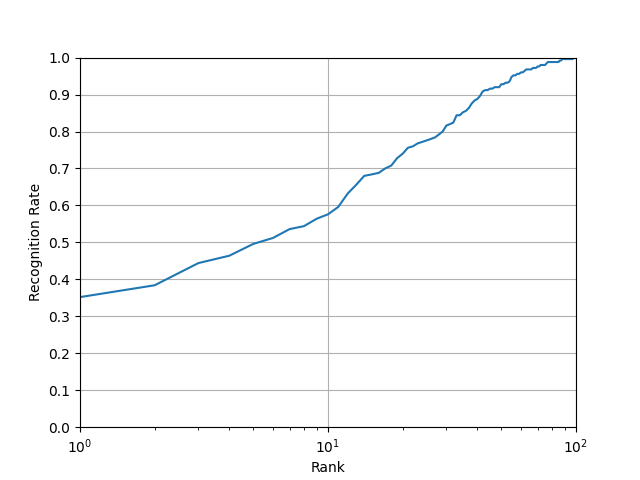
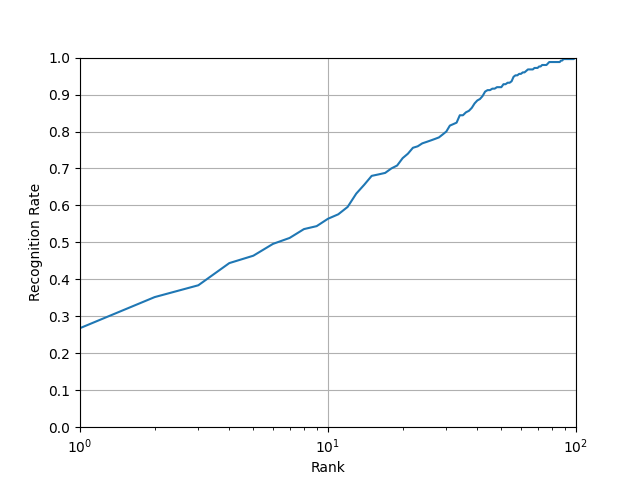
readme, more augmentations

diff --git a/feature_extractors/cnn/image_augment.py b/feature_extractors/cnn/image_augment.py
@@ -1,0 +1,114 @@
+import sys
+sys.path.append(sys.path[0]+'\\..\\..')
+
+import os
+from os import walk
+import cv2
+import random
+import numpy as np
+import shutil
+def brightness(img, low, high):
+	value = random.uniform(low, high)
+	hsv = cv2.cvtColor(img, cv2.COLOR_BGR2HSV)
+	hsv = np.array(hsv, dtype = np.float64)
+	hsv[:,:,1] = hsv[:,:,1]*value
+	hsv[:,:,1][hsv[:,:,1]>255]  = 255
+	hsv[:,:,2] = hsv[:,:,2]*value 
+	hsv[:,:,2][hsv[:,:,2]>255]  = 255
+	hsv = np.array(hsv, dtype = np.uint8)
+	img = cv2.cvtColor(hsv, cv2.COLOR_HSV2BGR)
+	return img
+
+def channel_shift(img, value):
+	value = int(random.uniform(-value, value))
+	img = img + value
+	img[:,:,:][img[:,:,:]>255]  = 255
+	img[:,:,:][img[:,:,:]<0]  = 0
+	img = img.astype(np.uint8)
+	return img
+
+def horizontal_flip(img, flag):
+	if flag:
+		return cv2.flip(img, 1)
+	else:
+		return img
+
+def rotate_image(image, angle):
+	image_center = tuple(np.array(image.shape[1::-1]) / 2)
+	rot_mat = cv2.getRotationMatrix2D(image_center, angle, 1.0)
+	result = cv2.warpAffine(image, rot_mat, image.shape[1::-1], flags=cv2.INTER_LINEAR)
+	return result
+
+def adjust_gamma(image, gamma=1.0):
+	# build a lookup table mapping the pixel values [0, 255] to
+	# their adjusted gamma values
+	invGamma = 1.0 / gamma
+	table = np.array([((i / 255.0) ** invGamma) * 255
+		for i in np.arange(0, 256)]).astype("uint8")
+	# apply gamma correction using the lookup table
+	return cv2.LUT(image, table)
+
+def main():
+	# gres po vseh razredih (mapah)
+	for classNumber in range(1, 101):
+		
+		pathClass= 'data/perfectly_detected_ears/trainClassed/'+str(classNumber)+'/'
+		filenames = next(walk(pathClass), (None, None, []))[2]  # [] if no file
+		# gres po vseh slikah v mapi
+		for imageName in filenames:
+			print(imageName)
+			
+			pathAugmented = 'data/perfectly_detected_ears/trainClassedAugmented/'+str(classNumber)+'/'
+			if not os.path.exists(pathAugmented):
+				os.makedirs(pathAugmented) 
+			
+			original = pathClass+imageName
+			target = pathAugmented+imageName
+			shutil.copyfile(original, target)
+			
+			imgOrg = cv2.imread(target)
+			name = imageName.split('.')[0]
+			i = 1
+			
+			# brightness
+			img1 = brightness(imgOrg, 0.5, 1.5)
+			cv2.imwrite(pathAugmented+name+'_'+str(i)+'_.png', img1)
+			i+=1
+			
+			# Channel shifting
+			#img = channel_shift(imgOrg, 60)
+			#cv2.imwrite(pathAugmented+name+'_'+str(i)+'_.png', img)
+			#i+=1
+			
+			# Gammma adjust
+			for gamma in [1.5, 0.5]:
+				adjusted = adjust_gamma(imgOrg, gamma=gamma)
+				cv2.imwrite(pathAugmented+name+'_'+str(i)+'_.png', adjusted)
+				i+=1
+			
+			# Horizontal flipping
+			img2 = horizontal_flip(imgOrg, True) 
+			cv2.imwrite(pathAugmented+name+'_'+str(i)+'_.png', img2)
+			i+=1
+			
+			# Scaling by a factor in the range (0.9, 1.2)
+			
+			
+			# Blurring with Gaussian filters with s in the range (0, 0.5)
+			for blur in [3, 5, 9, 13, 21]:
+				blurImg = cv2.GaussianBlur(imgOrg,(blur,blur),cv2.BORDER_DEFAULT)
+				cv2.imwrite(pathAugmented+name+'_'+str(i)+'_.png', blurImg)
+				i+=1
+			
+			# Rotations up to 35
+			for angle in range(-35, 35, 5):
+				if( angle > -10 and angle < 10 ):
+					continue
+				img3 = rotate_image(imgOrg, angle)
+				cv2.imwrite(pathAugmented+name+'_'+str(i)+'_.png', img3)
+				i+=1
+			
+			# nove slike se shrani v trainClassedAugmented
+
+if __name__ == '__main__':
+	main()

diff --git a/feature_extractors/cnn/modelTraining_augmented.py b/feature_extractors/cnn/modelTraining_augmented.py
@@ -19,18 +19,15 @@ from commonFunctions import get_annotations
 
 def modelArchitecture(IMG_WIDTH, IMG_HEIGHT): # Create the model
 	model = Sequential()
-	# 
 	model.add(Conv2D(64, kernel_size=4, strides=1,activation='relu', input_shape=(IMG_WIDTH, IMG_HEIGHT, 1)))
 	model.add(Conv2D(64, kernel_size=4, strides=2,activation='relu'))
 	model.add(MaxPooling2D(pool_size=2))
 	model.add(Conv2D(128, kernel_size=4, strides=1,activation='relu'))
 	model.add(MaxPooling2D(pool_size=2))
-	# 
 	model.add(Flatten())
 	model.add(Dense(128, activation='relu'))
 	model.add(Dropout(0.5))
 	model.add(Dense(101, activation='softmax'))
-	#model.summary()
 	model.compile(loss='categorical_crossentropy', optimizer='adam', metrics=['accuracy']) # Compile the model
 	return model
 
@@ -74,7 +71,7 @@ def main():
 	# Train the model
 	model.fit(X_train, to_categorical(Y_train), batch_size=32, epochs=100)
 	# increase the epochs or decrease the batch size according to classes
-	model.save('model_opt_augmented.h5')
+	model.save('model_3_augmented.h5')
 
 if __name__ == '__main__':
 	main()

diff --git a/feature_extractors/cnn/image_copy.py b/feature_extractors/cnn/image_copy.py
@@ -1,0 +1,33 @@
+import sys
+sys.path.append(sys.path[0]+'\\..\\..')
+
+import os
+import json
+import glob
+import shutil
+
+from commonFunctions import get_annotations
+
+def main():
+	with open('config_recognition.json') as config_file:
+		config = json.load(config_file)
+	images_path = config['train_images_path']
+	annotations_path = config['annotations_path']
+	
+	im_list = sorted(glob.glob(images_path + '/*.png', recursive=True))
+	im_list = [i.replace('\\', '/') for i in im_list] # windows backslash weirdness fix
+	
+	cla_d = get_annotations(annotations_path)
+	for im_name in im_list:
+		real_class = cla_d['/'.join(im_name.split('/')[-2:])]
+		pathDir = 'data/perfectly_detected_ears/trainClassed/'+str(real_class)
+		if not os.path.exists(pathDir):
+			os.makedirs(pathDir) 
+		
+		original = im_name
+		target = pathDir+'/'+'/'.join(im_name.split('/')[-1:])
+		shutil.copyfile(original, target)
+		
+
+if __name__ == '__main__':
+	main()

diff --git a/metrics/evaluation_recognition.py b/metrics/evaluation_recognition.py
@@ -54,13 +54,13 @@ class Evaluation:
 			for i in range(len(Y)):
 				if y[i] in np.argsort(Y[i][0])[::-1][:rankLevel]:
 					scoreaa+=1
-			#print(rankLevel, scoreaa)
 			rank = scoreaa/float(len(y))
 			ranks.append(round(rank*100, 2))
 		return ranks
 	
 	def plotCMC(self, scores_array, y):
 		ranks = self.compute_rankAll_accuracy(scores_array, y)
+		ranks.insert(0,0) # first number is zero
 		ranks = np.array(ranks)/100
 		import matplotlib.pyplot as plt
 		plt.plot(ranks)
@@ -69,6 +69,7 @@ class Evaluation:
 		plt.margins(0)
 		plt.ylim(ymin=0, ymax=1)
 		plt.yticks(np.arange(0, 1.1, 0.1))
+		
 		plt.xscale('log')
 		plt.xlim(xmax=100)
 		plt.grid(True)

diff --git a/feature_extractors/cnn/predictor.py b/feature_extractors/cnn/predictor.py
@@ -7,9 +7,10 @@ from tensorflow.keras import models
 class CNN:
 	def __init__(self, resize=100):
 		self.resize=resize
-		self.model = models.load_model('model_2_augmented.h5')
+		self.model = models.load_model('model_3_augmented.h5')
 		# model_1
 		# model_2_augmented
+		# model_3_augmented
 		
 	def predict(self, img):
 		img_array = cv2.cvtColor(img, cv2.COLOR_BGR2GRAY)

diff --git a/README.md b/README.md
@@ -11,7 +11,12 @@ In this assigment we will be learning about last two steps in biometric recognit
 <br />
 
 2. Trained my own CNN on default training set (Model 1).
-3. Augmented data.
+3. Augmented data. Augmentations:
+    - Brightness
+    - Gammma adjustment (0,5 and 1,5) (MORE)
+    - Horizontal flipping
+    - Blurring with Gaussian filters (filter sizes 3, 5, 9, 13, 21)  (MORE)
+    - Rotations up to 35
 4. Trained my own CNN on augmented training set (Model 2).
 <br />
 
@@ -19,18 +24,22 @@ In this assigment we will be learning about last two steps in biometric recognit
 
 ### Results:
 Trained models:
-| Model  | Rank-1 | Rank-5 |
+| Model  | Rank-1 | Rank-5 | Rank-5 |
 | ------------- | ------------- | ------------- |
 | Pix2Pix | 6,41 % | / |
 | LBP | 4,27 % | / |
 | CNN model 1 | 10,0 % | 24,0 % |
 | CNN model 2 with augmented images | 26,8 % | 46,4 % |
+| CNN model 3 with more augmented images | 32,4 % | 54,8 % |
 
 CNN model 1:
 ![alt text](https://github.com/Kami0n/SB-Assigment-3/blob/main/results/model_1_CMC.png?raw=true)
 
 CNN model 2 with augmented images:
 ![alt text](https://github.com/Kami0n/SB-Assigment-3/blob/main/results/model_2_augmented_CMC.png?raw=true)
+
+CNN model 3 with more augmented images:
+![alt text](https://github.com/Kami0n/SB-Assigment-3/blob/main/results/model_3_augmented_CMC.png?raw=true)
 
 
 
